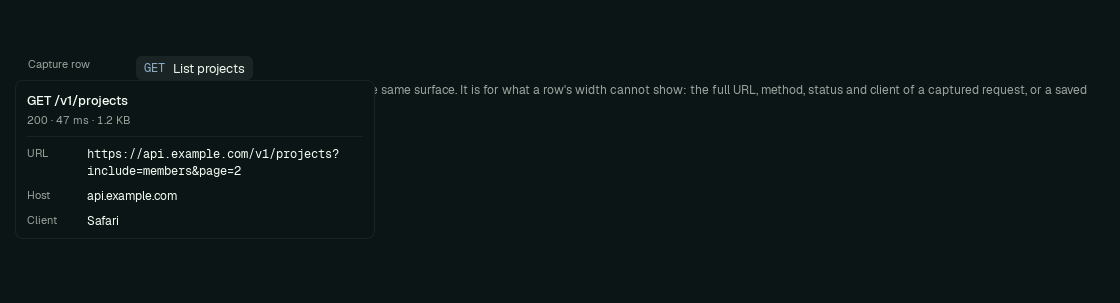
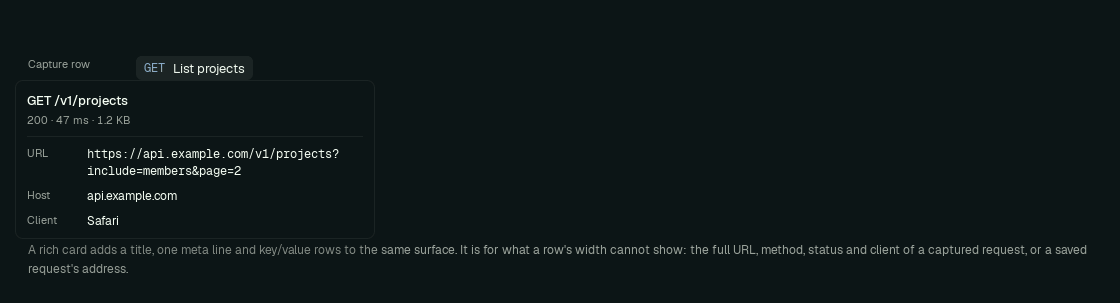
docs(gallery): leave the hover card room above its caption
The card hangs below the row it explains; the plate's caption now sits below
that room instead of under the card. Re-exported the two hover-card plates at
112 colors, keeping docs/design under 3 MB.

Amp-Thread-ID: https://ampcode.com/threads/T-01a1e24d-3c0e-737b-8824-68b5d27d6f69

Changed region(s): [[0.0312, 0.802, 0.9688, 0.9208], [0.3438, 0.2673, 0.9688, 0.3267]]

diff --git a/internal/gallery/components.go b/internal/gallery/components.go
@@ -424,6 +424,8 @@ func (k *components) hoverCardPlate(c *ui.Context) {
 			},
 		}), hoverCard)
 	})
+	// The card hangs below the row; leave it room so the caption stays clear.
+	ui.Box(c).Height(c.Theme().Space(40)).Shrink(0)
 	caption(c, "A rich card adds a title, one meta line and key/value rows to the same surface. It is for what a row's width cannot show: the full URL, method, status and client of a captured request, or a saved request's address.")
 }
 
